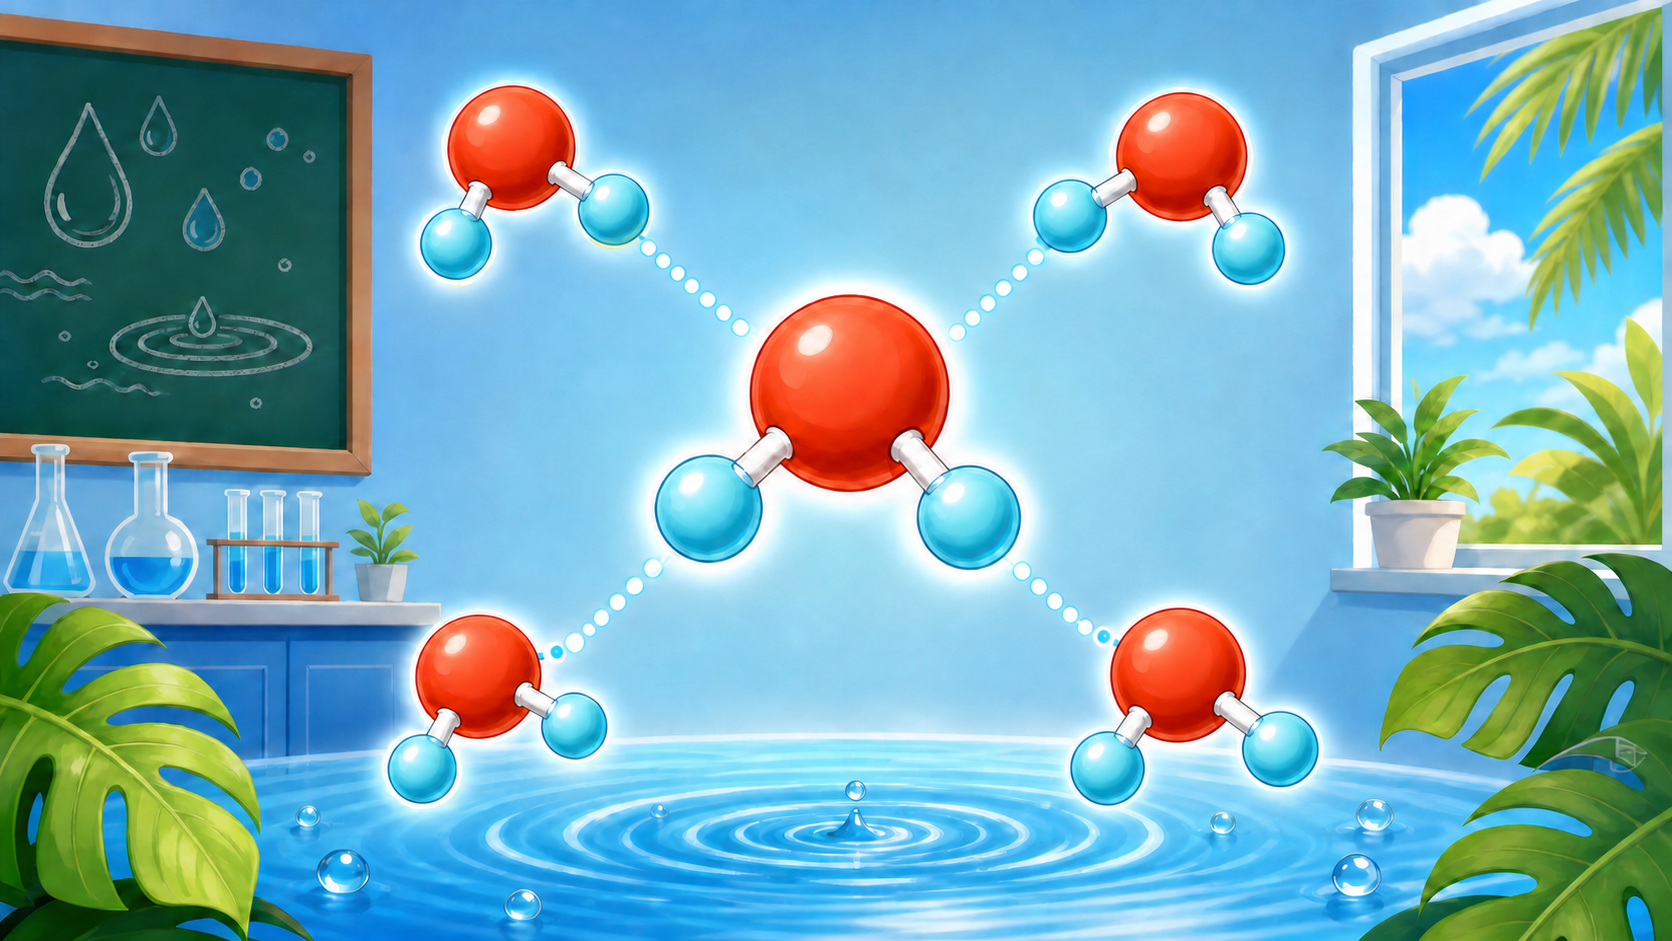
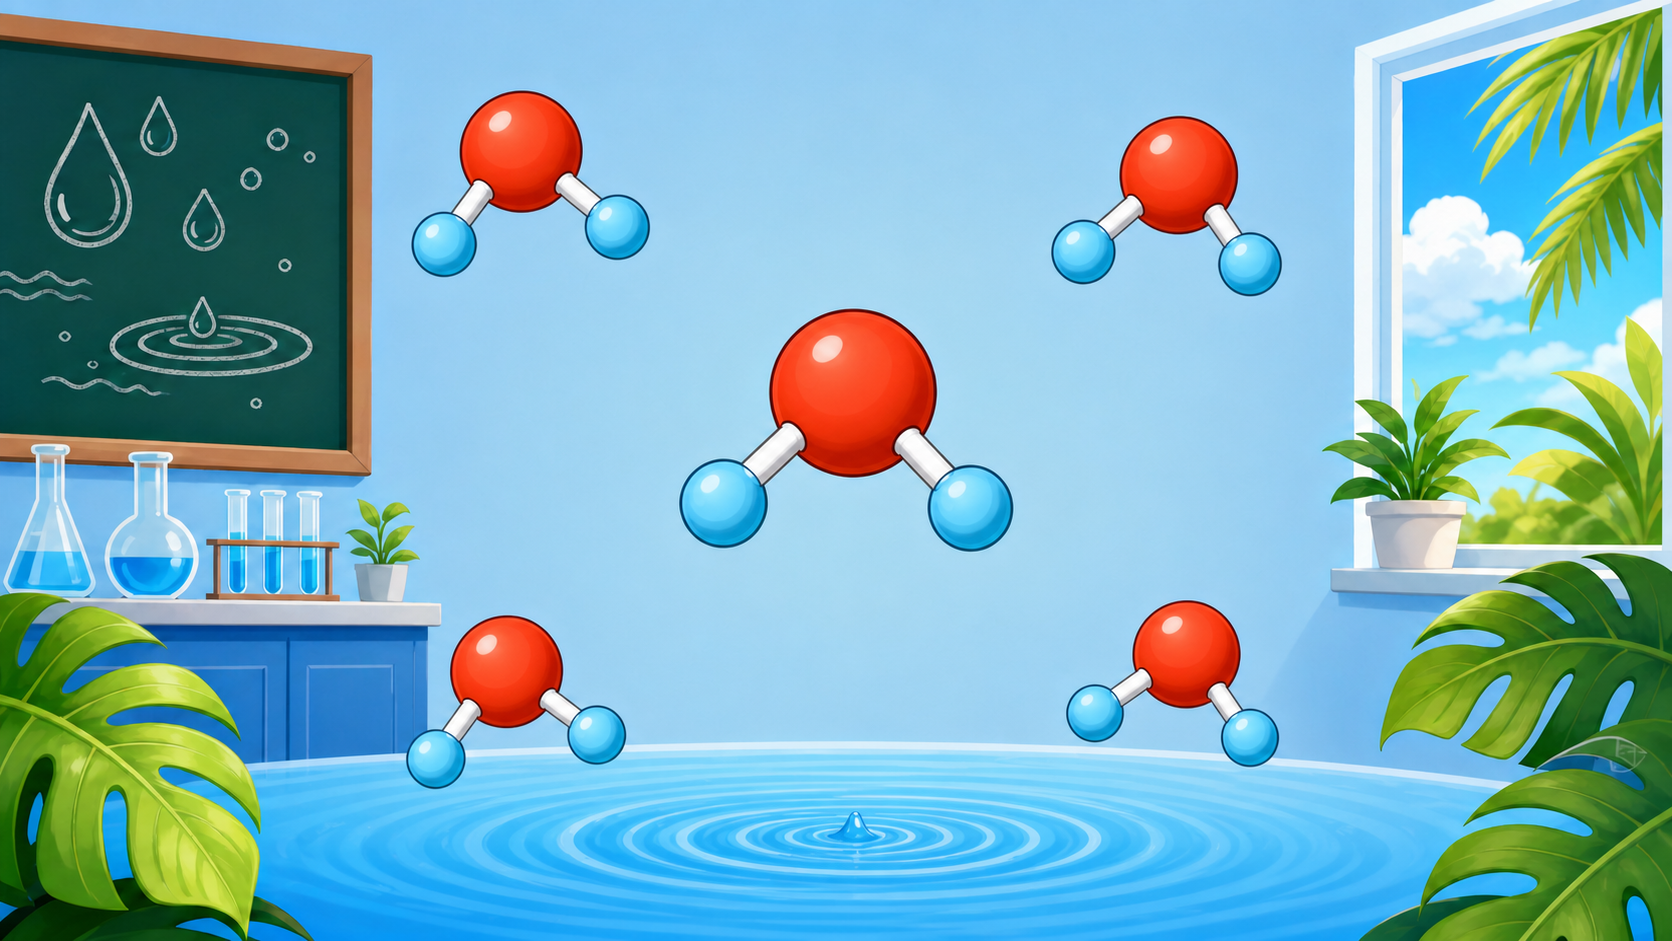
Enhance achievements and quiz functionality; add new achievement and UI updates

diff --git a/src/main/resources/css/style.css b/src/main/resources/css/style.css
@@ -1,19 +1,21 @@
 .root{-fx-font-family:"Inter","Avenir Next",sans-serif;-fx-font-size:15px;-fx-text-fill:#eafcff;}
 .app-root{-fx-background-color:linear-gradient(to bottom right,#031b32 0%,#063b59 48%,#087f8c 100%);}
 .app-root.menu-background{-fx-background-image:url('../images/lab-background.png');-fx-background-size:cover;-fx-background-position:center;}
+.scene-frame{-fx-background-color:#031b32;}.app-credit{-fx-alignment:center;-fx-padding:5 14 5 14;-fx-background-color:rgba(2,19,35,.78);-fx-background-radius:10;-fx-border-color:rgba(112,229,245,.22);-fx-border-width:1;-fx-border-radius:10;-fx-text-fill:rgba(226,251,253,.88);-fx-font-size:11px;-fx-font-weight:600;-fx-letter-spacing:.35px;}
 .app-root:before{-fx-background-color:rgba(255,255,255,.03);}
 .label{-fx-text-fill:#eafcff;}.top-bar{-fx-padding:18 28;-fx-background-color:rgba(2,19,35,.72);-fx-border-color:transparent transparent rgba(108,234,255,.18) transparent;}
 .glass-card{-fx-padding:34;-fx-background-color:rgba(7,30,51,.82);-fx-background-radius:24;-fx-border-radius:24;-fx-border-color:rgba(127,236,255,.28);-fx-border-width:1;-fx-effect:dropshadow(gaussian,rgba(0,0,0,.38),30,.15,0,12);}
+.menu-screen-overlay{-fx-max-width:Infinity;-fx-max-height:Infinity;-fx-background-radius:0;-fx-border-radius:0;-fx-border-width:0;-fx-effect:null;}
 .hero-title{-fx-font-size:72px;-fx-font-weight:800;-fx-text-fill:linear-gradient(to right,#fff,#72efff);-fx-effect:dropshadow(gaussian,rgba(52,225,255,.55),22,.25,0,0);}
 .hero-subtitle{-fx-font-size:28px;-fx-font-weight:700;-fx-text-fill:#7cecff;}.section-title{-fx-font-size:27px;-fx-font-weight:700;}.question-title{-fx-font-size:22px;-fx-font-weight:700;}.body-copy{-fx-font-size:17px;-fx-text-fill:#bedee8;}
 .eyebrow{-fx-font-size:13px;-fx-font-weight:800;-fx-text-fill:#70e9ff;-fx-letter-spacing:2px;}.molecule-mark{-fx-padding:30;-fx-font-size:24px;-fx-text-fill:rgba(126,238,255,.35);}.bubble{-fx-fill:rgba(115,235,255,.22);-fx-stroke:rgba(200,249,255,.55);}
 .button{-fx-cursor:hand;-fx-padding:12 20;-fx-background-color:rgba(91,218,237,.12);-fx-background-radius:12;-fx-border-color:rgba(114,230,248,.3);-fx-border-radius:12;-fx-text-fill:#eaffff;-fx-font-weight:700;}.button:hover{-fx-background-color:rgba(95,231,250,.26);-fx-effect:dropshadow(gaussian,rgba(75,225,255,.45),14,.2,0,0);-fx-translate-y:-1;}
-.primary-button{-fx-background-color:linear-gradient(to right,#06a9c2,#21d6ca);-fx-text-fill:#012c3b;-fx-border-color:transparent;-fx-font-weight:800;}.ghost-button{-fx-background-color:transparent;-fx-border-color:rgba(150,232,245,.2);}.answer-button{-fx-alignment:CENTER_LEFT;}
+.primary-button{-fx-background-color:linear-gradient(to right,#06a9c2,#21d6ca);-fx-text-fill:#012c3b;-fx-border-color:transparent;-fx-font-weight:800;}.ghost-button{-fx-background-color:transparent;-fx-border-color:rgba(150,232,245,.2);}.answer-button{-fx-alignment:CENTER_LEFT;}.answer-button:disabled{-fx-opacity:1;}.answer-correct,.answer-correct:disabled{-fx-background-color:rgba(31,179,111,.72);-fx-border-color:#79ffc0;-fx-text-fill:white;}.answer-incorrect,.answer-incorrect:disabled{-fx-background-color:rgba(205,57,69,.76);-fx-border-color:#ff8b96;-fx-text-fill:white;}
 .experiment-zone{-fx-padding:28;-fx-background-color:rgba(0,10,24,.38);-fx-background-radius:18;-fx-border-color:rgba(110,234,250,.15);-fx-border-radius:18;-fx-min-height:210;}.experiment-piece{-fx-font-size:17px;-fx-padding:20 24;}.selected-piece{-fx-background-color:#65e7ee;-fx-text-fill:#073449;-fx-effect:dropshadow(gaussian,#60edff,18,.3,0,0);}
 .feedback{-fx-min-height:44;-fx-text-fill:#a9d3dc;}.success{-fx-text-fill:#73ffc1;-fx-font-weight:700;}.warning{-fx-text-fill:#ffd37a;}.progress-bar{-fx-accent:#4ee4e0;}.progress-bar .track{-fx-background-color:rgba(0,0,0,.3);-fx-background-radius:8;}.progress-bar .bar{-fx-background-radius:8;}
 .text-field{-fx-padding:13;-fx-background-color:rgba(255,255,255,.1);-fx-background-radius:12;-fx-border-color:rgba(132,230,245,.3);-fx-border-radius:12;-fx-text-fill:white;-fx-prompt-text-fill:#8db7c4;}.crystal{-fx-font-size:46px;-fx-text-fill:#71efff;-fx-effect:dropshadow(gaussian,#50eaff,14,.35,0,0);}
 .stars{-fx-font-size:45px;-fx-text-fill:#ffd764;}.stat-card{-fx-padding:18 30;-fx-background-color:rgba(43,196,213,.1);-fx-background-radius:14;}.stat-value{-fx-font-size:28px;-fx-font-weight:800;}.achievement-badge{-fx-padding:9 14;-fx-background-color:rgba(75,225,205,.16);-fx-background-radius:20;-fx-text-fill:#8dffe1;}
-.page-title{-fx-font-size:23px;-fx-font-weight:800;}.database-status{-fx-padding:8 14;-fx-background-color:rgba(78,228,224,.14);-fx-background-radius:18;-fx-text-fill:#78f4eb;-fx-font-weight:800;}.content-scroll,.content-scroll>.viewport{-fx-background-color:transparent;}.content-scroll{-fx-border-color:transparent;}
+.page-title{-fx-font-size:23px;-fx-font-weight:800;}.profile-owner{-fx-font-size:14px;-fx-text-fill:#9edbe5;-fx-font-weight:600;}.database-status{-fx-padding:8 14;-fx-background-color:rgba(78,228,224,.14);-fx-background-radius:18;-fx-text-fill:#78f4eb;-fx-font-weight:800;}.content-scroll,.content-scroll>.viewport{-fx-background-color:transparent;}.content-scroll{-fx-border-color:transparent;}
 .note-card{-fx-padding:30 34;-fx-background-color:rgba(6,29,48,.9);-fx-background-radius:20;-fx-border-color:rgba(111,231,247,.3);-fx-border-width:1 1 1 5;-fx-border-radius:20;-fx-effect:dropshadow(gaussian,rgba(0,0,0,.24),20,.12,0,8);}.note-heading{-fx-font-size:21px;-fx-font-weight:800;-fx-text-fill:#73edff;}.note-key-idea{-fx-font-size:19px;-fx-font-weight:700;-fx-text-fill:#f0fdff;}.note-fact{-fx-text-fill:#bddbe3;}.importance-strip{-fx-padding:12 14;-fx-background-color:rgba(50,211,189,.12);-fx-background-radius:10;-fx-text-fill:#8dffe4;-fx-font-weight:600;}
 .manual-card{-fx-padding:22;-fx-pref-width:230;-fx-min-height:240;-fx-background-color:rgba(5,29,48,.86);-fx-background-radius:17;-fx-border-color:rgba(105,229,247,.2);-fx-border-radius:17;}.manual-number{-fx-font-size:42px;-fx-font-weight:800;-fx-text-fill:rgba(104,235,247,.32);}.tip-card{-fx-padding:22 26;-fx-background-color:rgba(48,214,191,.1);-fx-background-radius:16;-fx-border-color:rgba(91,241,220,.22);-fx-border-radius:16;}
 .achievement-card{-fx-padding:18 24;-fx-background-radius:15;-fx-border-radius:15;}.achievement-unlocked{-fx-background-color:rgba(50,212,178,.14);-fx-border-color:rgba(101,255,213,.35);}.achievement-locked{-fx-background-color:rgba(4,20,35,.64);-fx-border-color:rgba(146,182,191,.12);-fx-opacity:.66;}.achievement-title{-fx-font-size:18px;-fx-font-weight:800;}.achievement-unlocked .achievement-title{-fx-text-fill:#83ffdc;}.achievement-description{-fx-text-fill:#a8c9d1;}

diff --git a/src/main/java/service/SceneManager.java b/src/main/java/service/SceneManager.java
@@ -1,13 +1,88 @@
 package service;
 
-import javafx.animation.FadeTransition;import javafx.fxml.FXMLLoader;import javafx.scene.Parent;import javafx.scene.Scene;import javafx.stage.Stage;import javafx.util.Duration;
-import java.io.IOException;import java.util.Objects;
+import javafx.animation.FadeTransition;
+import javafx.animation.Interpolator;
+import javafx.application.Platform;
+import javafx.fxml.FXMLLoader;
+import javafx.scene.Parent;
+import javafx.scene.Scene;
+import javafx.scene.control.Label;
+import javafx.scene.layout.StackPane;
+import javafx.scene.paint.Color;
+import javafx.stage.Stage;
+import javafx.util.Duration;
+
+import java.io.IOException;
+import java.util.Objects;
+
 public final class SceneManager {
- private static Stage stage; private SceneManager(){}
- public static void initialise(Stage value){stage=Objects.requireNonNull(value);}
- public static void switchScene(String fxml){
-  try{Parent root=FXMLLoader.load(Objects.requireNonNull(SceneManager.class.getResource("/view/"+fxml)));Scene scene=new Scene(root,1200,760);scene.getStylesheets().add(Objects.requireNonNull(SceneManager.class.getResource("/css/style.css")).toExternalForm());var learningCss=SceneManager.class.getResource("/css/learning-notes.css");if(learningCss!=null)scene.getStylesheets().add(learningCss.toExternalForm());stage.setScene(scene);FadeTransition fade=new FadeTransition(Duration.millis(450),root);fade.setFromValue(0);fade.setToValue(1);fade.play();}
-  catch(IOException|NullPointerException ex){throw new IllegalStateException("Cannot load scene "+fxml,ex);}
- }
- public static Stage getStage(){return stage;}
+    private static final String APP_CREDIT =
+            "Water Quest™ | Designed & Developed by BIOVIS | IICFE26";
+    private static Stage stage;
+
+    private SceneManager() {}
+
+    public static void initialise(Stage value) {
+        stage = Objects.requireNonNull(value);
+    }
+
+    public static void switchScene(String fxml) {
+        try {
+            Parent page = FXMLLoader.load(Objects.requireNonNull(
+                    SceneManager.class.getResource("/view/" + fxml)));
+            Parent root = withCreditFooter(page);
+
+            boolean wasFullScreen = stage.isFullScreen();
+            boolean wasMaximized = stage.isMaximized();
+            Scene scene = stage.getScene();
+
+            if (scene == null) {
+                scene = new Scene(root, 1200, 760);
+                scene.setFill(Color.web("#031b32"));
+                scene.getStylesheets().add(Objects.requireNonNull(
+                        SceneManager.class.getResource("/css/style.css")).toExternalForm());
+                var learningCss = SceneManager.class.getResource("/css/learning-notes.css");
+                if (learningCss != null) scene.getStylesheets().add(learningCss.toExternalForm());
+                stage.setScene(scene);
+            } else {
+                // Reusing the Scene prevents native full-screen from being interrupted
+                // when navigating between FXML screens, particularly on macOS.
+                scene.setFill(Color.web("#031b32"));
+                scene.setRoot(root);
+            }
+
+            // Some window managers briefly clear these flags while replacing content.
+            Platform.runLater(() -> {
+                if (wasMaximized && !stage.isMaximized()) stage.setMaximized(true);
+                if (wasFullScreen && !stage.isFullScreen()) stage.setFullScreen(true);
+            });
+
+            // Reveal the page over the app's navy backdrop. Starting above zero
+            // prevents the white flash produced by exposing JavaFX's default fill.
+            FadeTransition fade = new FadeTransition(Duration.millis(260), root);
+            fade.setFromValue(0.22);
+            fade.setToValue(1);
+            fade.setInterpolator(Interpolator.EASE_OUT);
+
+            fade.play();
+        } catch (IOException | NullPointerException ex) {
+            throw new IllegalStateException("Cannot load scene " + fxml, ex);
+        }
+    }
+
+    public static Stage getStage() {
+        return stage;
+    }
+
+    private static Parent withCreditFooter(Parent page) {
+        Label credit = new Label(APP_CREDIT);
+        credit.getStyleClass().add("app-credit");
+        credit.setMouseTransparent(true);
+
+        StackPane frame = new StackPane(page, credit);
+        frame.getStyleClass().add("scene-frame");
+        StackPane.setAlignment(credit, javafx.geometry.Pos.BOTTOM_CENTER);
+        StackPane.setMargin(credit, new javafx.geometry.Insets(0, 20, 10, 20));
+        return frame;
+    }
 }

diff --git a/src/main/java/controller/FinalQuizController.java b/src/main/java/controller/FinalQuizController.java
@@ -2,6 +2,6 @@ package controller;
 import javafx.animation.*;import javafx.fxml.FXML;import javafx.scene.control.*;import javafx.scene.layout.VBox;import javafx.util.Duration;import model.*;import service.*;
 public final class FinalQuizController {@FXML private Label questionNumber,timerLabel,question,feedback,scoreLabel;@FXML private VBox choices;@FXML private ProgressBar progress,timer;private Quiz quiz;private Timeline clock;private int seconds;
  @FXML public void initialize(){quiz=GameManager.getInstance().startFinalQuiz();showQuestion();}
- private void showQuestion(){if(quiz.isFinished()){finish();return;}Question q=quiz.current();questionNumber.setText("SECURITY QUESTION "+(quiz.getIndex()+1)+" / "+quiz.size());progress.setProgress((double)quiz.getIndex()/quiz.size());question.setText(q.prompt());feedback.setText("");choices.getChildren().clear();for(int i=0;i<q.choices().size();i++){Button b=new Button(q.choices().get(i));b.getStyleClass().add("answer-button");b.setMaxWidth(Double.MAX_VALUE);int choice=i;b.setOnAction(e->answer(choice));choices.getChildren().add(b);}seconds=20;timer.setProgress(1);timerLabel.setText("20 s");if(clock!=null)clock.stop();clock=new Timeline(new KeyFrame(Duration.seconds(1),e->{seconds--;timer.setProgress(seconds/20.0);timerLabel.setText(seconds+" s");if(seconds<=0)answer(-1);}));clock.setCycleCount(20);clock.play();}
- private void answer(int selected){clock.stop();Question answeredQuestion=quiz.current();boolean correct=quiz.answer(selected);GameManager.getInstance().recordAnswer(correct);feedback.setText(correct?"Access fragment accepted.":"Access denied. "+answeredQuestion.explanation());scoreLabel.setText("XP  "+GameManager.getInstance().getPlayer().getScore());PauseTransition pause=new PauseTransition(Duration.millis(1100));pause.setOnFinished(e->showQuestion());pause.play();}
+ private void showQuestion(){if(quiz.isFinished()){finish();return;}Question q=quiz.current();questionNumber.setText("SECURITY QUESTION "+(quiz.getIndex()+1)+" / "+quiz.size());progress.setProgress((double)quiz.getIndex()/quiz.size());question.setText(q.prompt());feedback.setText("");feedback.getStyleClass().removeAll("success","warning");choices.getChildren().clear();for(int i=0;i<q.choices().size();i++){Button b=new Button(q.choices().get(i));b.getStyleClass().add("answer-button");b.setMaxWidth(Double.MAX_VALUE);int choice=i;b.setOnAction(e->answer(choice));choices.getChildren().add(b);}seconds=20;timer.setProgress(1);timerLabel.setText("20 s");if(clock!=null)clock.stop();clock=new Timeline(new KeyFrame(Duration.seconds(1),e->{seconds--;timer.setProgress(seconds/20.0);timerLabel.setText(seconds+" s");if(seconds<=0)answer(-1);}));clock.setCycleCount(20);clock.play();}
+ private void answer(int selected){clock.stop();Question answeredQuestion=quiz.current();for(int i=0;i<choices.getChildren().size();i++){Button choice=(Button)choices.getChildren().get(i);choice.setDisable(true);if(i==answeredQuestion.correctIndex())choice.getStyleClass().add("answer-correct");else if(i==selected)choice.getStyleClass().add("answer-incorrect");}boolean correct=quiz.answer(selected);GameManager.getInstance().recordAnswer(correct);feedback.setText(correct?"Access fragment accepted.":"Access denied. "+answeredQuestion.explanation());feedback.getStyleClass().add(correct?"success":"warning");scoreLabel.setText("XP  "+GameManager.getInstance().getPlayer().getScore());PauseTransition pause=new PauseTransition(Duration.millis(1100));pause.setOnFinished(e->showQuestion());pause.play();}
  private void finish(){progress.setProgress(1);if(quiz.getCorrect()==quiz.size())GameManager.getInstance().getPlayer().unlock(Achievement.WATER_GENIUS);SceneManager.switchScene("Result.fxml");}}

diff --git a/src/main/java/controller/BaseLevelController.java b/src/main/java/controller/BaseLevelController.java
@@ -9,7 +9,7 @@ public abstract class BaseLevelController {
  private final List<Integer> selected=new ArrayList<>();private final List<Node> selectedNodes=new ArrayList<>();
  private void select(int index,Node node){if(missionComplete||selected.contains(index))return;selected.add(index);selectedNodes.add(node);node.getStyleClass().add("selected-piece");AnimationManager.pulse(node);if(selected.size()==correctOrder().size()){if(selected.equals(correctOrder())){missionComplete=true;feedback.setText("Experiment successful! Scientific checkpoint unlocked.");feedback.getStyleClass().add("success");quizBox.setVisible(true);quizBox.setManaged(true);}else{feedback.setText("That arrangement is unstable. Try the scientific order again.");selectedNodes.forEach(AnimationManager::shake);selectedNodes.forEach(n->n.getStyleClass().remove("selected-piece"));selected.clear();selectedNodes.clear();AudioManager.play("wrong");}}}
  private void buildQuiz(){question.setText(quizPrompt());List<String> list=quizChoices();for(int i=0;i<list.size();i++){Button b=new Button(list.get(i));b.getStyleClass().add("answer-button");b.setMaxWidth(Double.MAX_VALUE);final int answer=i;b.setOnAction(e->answer(answer,b));choices.getChildren().add(b);}}
- private void answer(int answer,Button source){if(answered)return;answered=true;boolean correct=answer==quizCorrect();GameManager.getInstance().recordAnswer(correct);feedback.setText((correct?"Correct! ":"Not quite. ")+explanation());feedback.getStyleClass().add(correct?"success":"warning");if(correct)AnimationManager.pulse(source);else AnimationManager.shake(source);continueButton.setVisible(true);continueButton.setManaged(true);refreshHud();}
+ private void answer(int answer,Button source){if(answered)return;answered=true;boolean correct=answer==quizCorrect();for(int i=0;i<choices.getChildren().size();i++){Button choice=(Button)choices.getChildren().get(i);choice.setDisable(true);if(i==quizCorrect())choice.getStyleClass().add("answer-correct");else if(i==answer)choice.getStyleClass().add("answer-incorrect");}GameManager.getInstance().recordAnswer(correct);feedback.setText((correct?"Correct! ":"Not quite. ")+explanation());feedback.getStyleClass().add(correct?"success":"warning");if(correct)AnimationManager.pulse(source);else AnimationManager.shake(source);continueButton.setVisible(true);continueButton.setManaged(true);refreshHud();}
  @FXML private void proceed(){GameManager.getInstance().completeLevel(level());AudioManager.play("crystal");if(level()<6)SceneManager.switchScene("Level"+(level()+1)+".fxml");else SceneManager.switchScene("FinalQuiz.fxml");}
  @FXML private void menu(){SceneManager.switchScene("MainMenu.fxml");}private void refreshHud(){scoreLabel.setText("XP  "+GameManager.getInstance().getPlayer().getScore());livesLabel.setText("Lives  "+"♥".repeat(GameManager.getInstance().getPlayer().getLives()));}
 }

diff --git a/src/main/java/service/GameManager.java b/src/main/java/service/GameManager.java
@@ -5,7 +5,7 @@ public final class GameManager {
  private static final GameManager INSTANCE=new GameManager(); private final Player player=new Player();private final Set<Integer> completed=new HashSet<>();private final Set<String> completedLearningTopics=new HashSet<>();private Quiz finalQuiz;
  private GameManager(){} public static GameManager getInstance(){return INSTANCE;} public Player getPlayer(){return player;}
  public void newGame(String name){player.reset();player.setName(name);completed.clear();completedLearningTopics.clear();finalQuiz=null;}
- public void completeLearningTopic(String topicId){if(topicId!=null&&!topicId.isBlank())completedLearningTopics.add(topicId);}
+ public void completeLearningTopic(String topicId){if(topicId!=null&&!topicId.isBlank()&&completedLearningTopics.add(topicId)&&completedLearningTopics.size()>=6)player.unlock(Achievement.KNOWLEDGE_EXPLORER);}
  public int completedLearningTopicCount(){return completedLearningTopics.size();}
  public boolean hasCompletedLearningNotes(){return completedLearningTopics.size()>=6;}
  public void recordAnswer(boolean correct){player.recordAnswer(correct);if(correct){player.addScore(ScoreManager.CORRECT);player.unlock(Achievement.WATER_BEGINNER);}else player.loseLife();}

diff --git a/src/main/java/controller/AchievementsController.java b/src/main/java/controller/AchievementsController.java
@@ -10,10 +10,11 @@ import service.SceneManager;
 
 public final class AchievementsController {
     @FXML private VBox achievementList;
-    @FXML private Label summary;
+    @FXML private Label summary, recordOwner;
 
     @FXML public void initialize() {
         Player player = GameManager.getInstance().getPlayer();
+        recordOwner.setText(player.getName() + "’s Research Record");
         summary.setText(player.getAchievements().size() + " / " + Achievement.values().length + " UNLOCKED");
         for (Achievement achievement : Achievement.values()) {
             boolean unlocked = player.getAchievements().contains(achievement);

diff --git a/src/main/java/model/Achievement.java b/src/main/java/model/Achievement.java
@@ -1,6 +1,7 @@
 package model;
 
 public enum Achievement {
+    KNOWLEDGE_EXPLORER("Knowledge Explorer", "Complete all six Learning Notes topics"),
     WATER_BEGINNER("Water Beginner", "Answer your first question correctly"),
     HYDROGEN_BOND_EXPERT("Hydrogen Bond Expert", "Complete The Water Molecule"),
     MASTER_CHEMIST("Master Chemist", "Complete Universal Solvent"),
